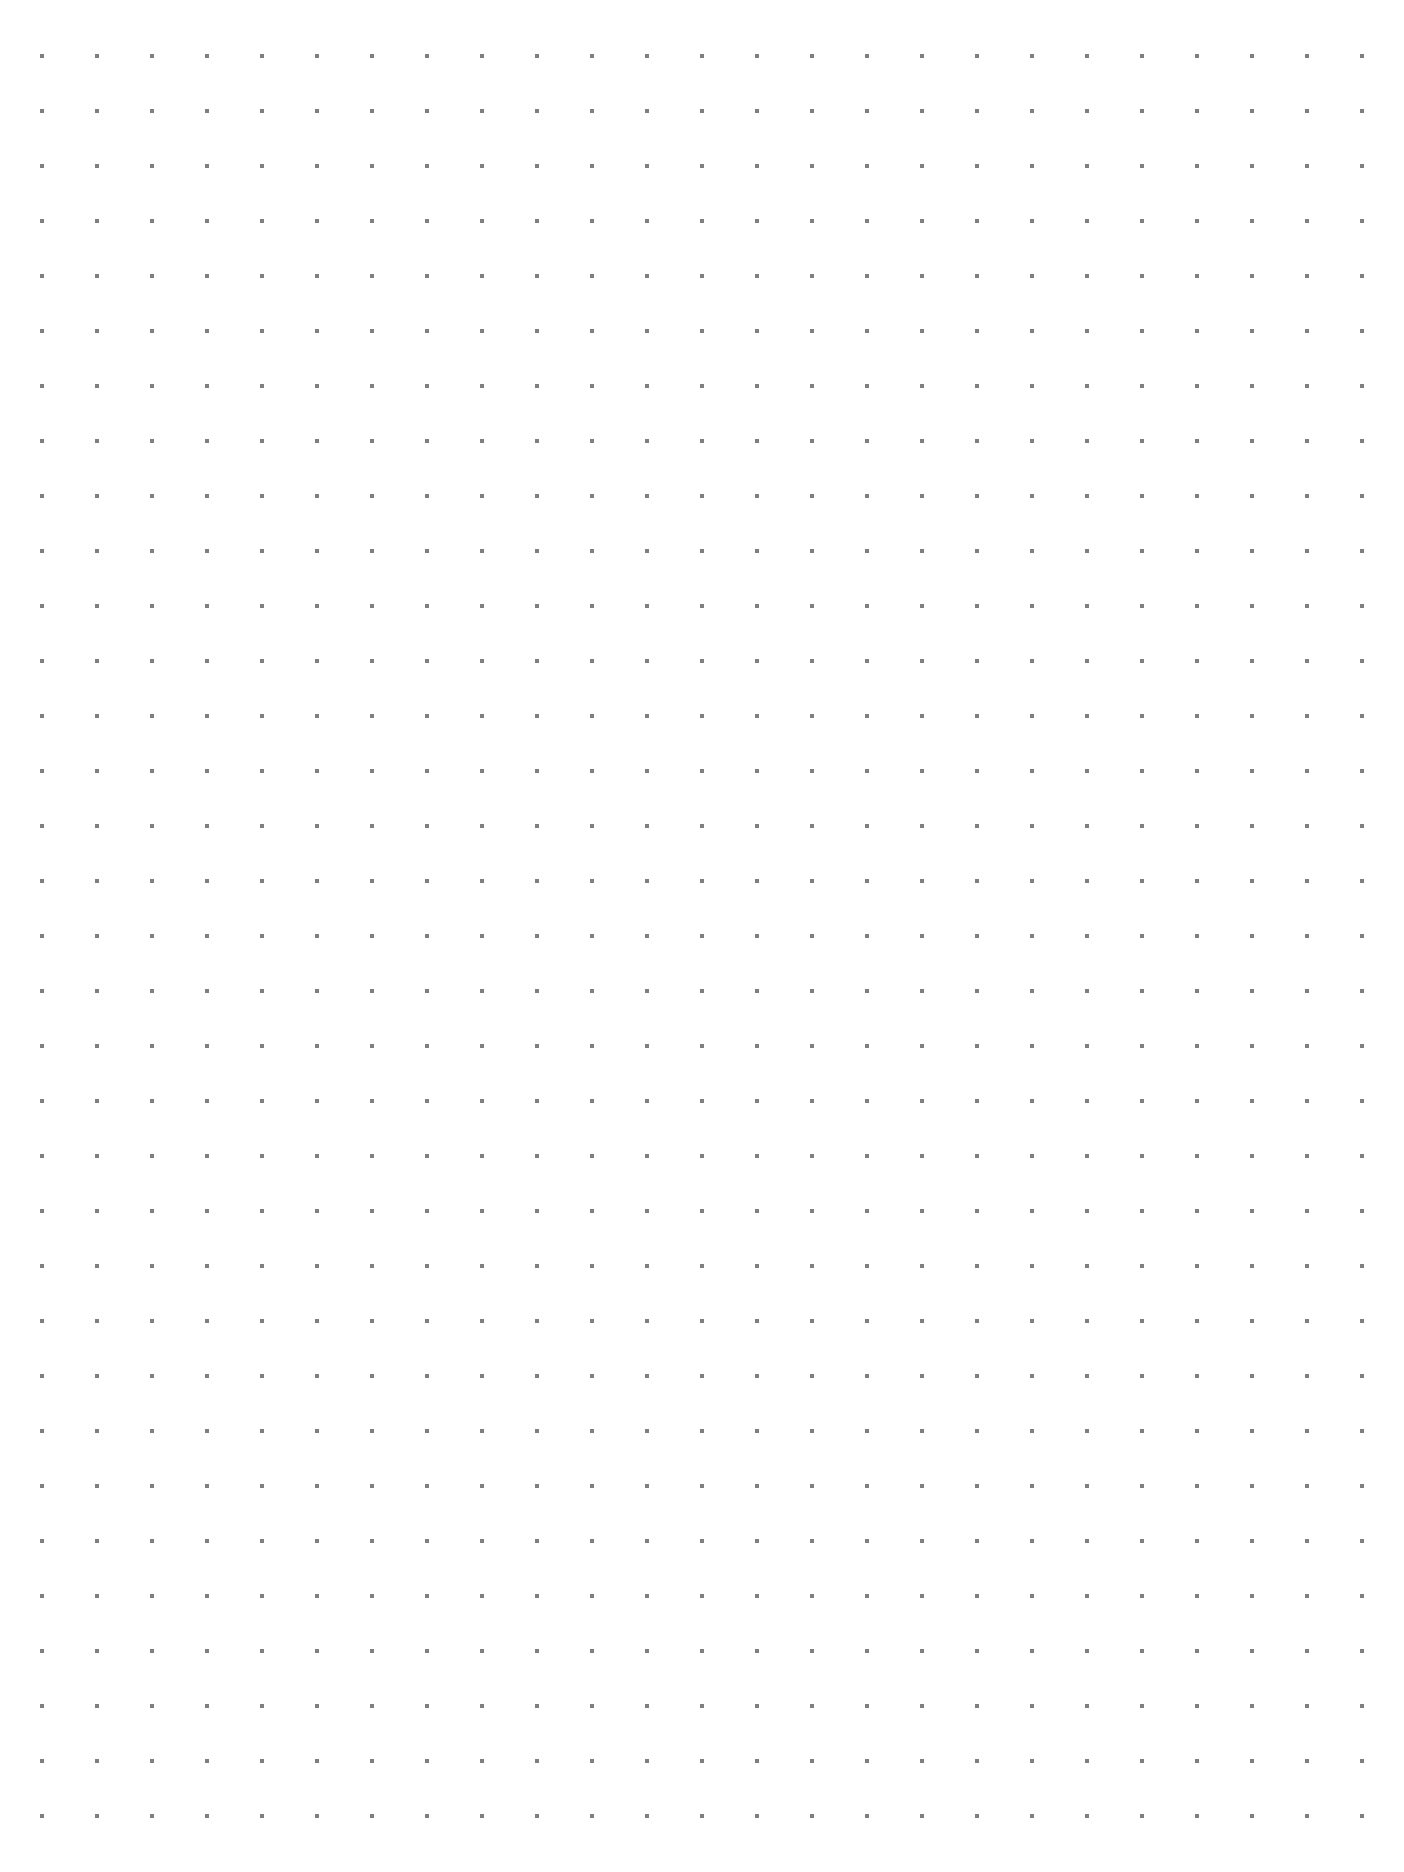
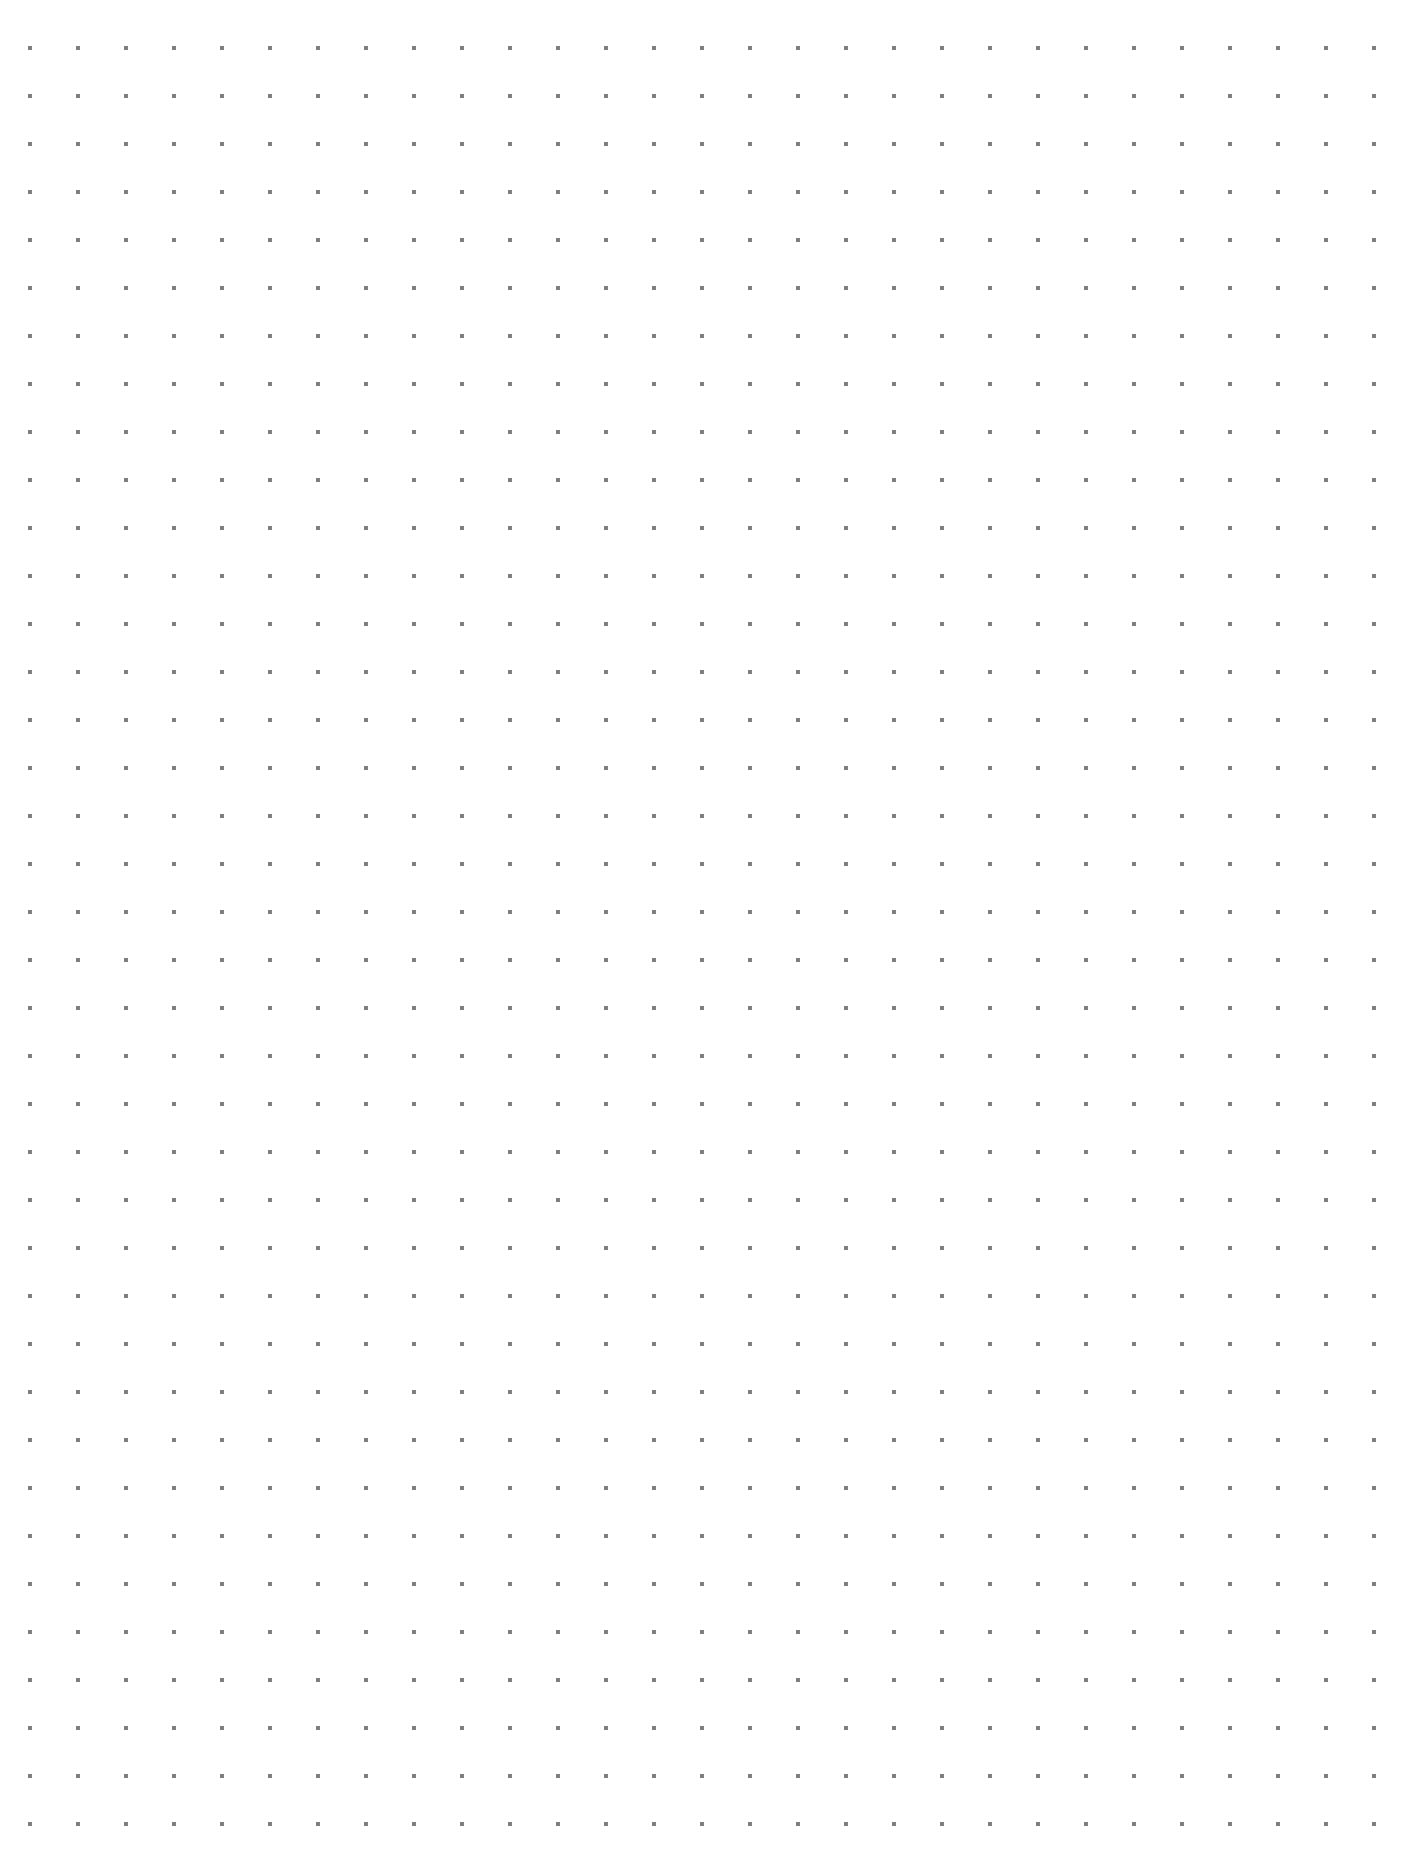
dots: make size configurable
I switched from a Nova 3 to a Note 3 and the spacing was too much, so it makes sense for it to be changeable.

diff --git a/templates/dots.go b/templates/dots.go
@@ -5,7 +5,13 @@ import (
 )
 
 type Dots struct {
-	// NOOP
+	spacing float64
+}
+
+func NewDots(spacing float64) Dots {
+	return Dots{
+		spacing: spacing,
+	}
 }
 
 func (d Dots) Name() string {
@@ -14,28 +20,27 @@ func (d Dots) Name() string {
 
 func (d Dots) Draw(ctx *gg.Context) {
 
-	spacing := 55.0
 	dotSize := 4.0
 
 	screenWidth := float64(ctx.Width())
 	screenHeight := float64(ctx.Height())
 
 	// we want at least half spacing as surrounding margin
-	minMargin := spacing / 2.0
+	minMargin := d.spacing / 2.0
 
 	// Calculate how many total dots are needed
-	xDotsTotal := int((screenWidth-2*minMargin)/spacing) + 1
-	yDotsTotal := int((screenHeight - 2*minMargin) / spacing)
+	xDotsTotal := int((screenWidth-2*minMargin)/d.spacing) + 1
+	yDotsTotal := int((screenHeight - 2*minMargin) / d.spacing)
 
 	// Center the dots on the canvas
-	startX := (screenWidth - float64(xDotsTotal-1)*spacing) / 2.0
-	startY := (screenHeight - float64(yDotsTotal-1)*spacing) / 2.0
+	startX := (screenWidth - float64(xDotsTotal-1)*d.spacing) / 2.0
+	startY := (screenHeight - float64(yDotsTotal-1)*d.spacing) / 2.0
 
 	// Draw the dots
 	for dotsY := 0; dotsY < yDotsTotal; dotsY++ {
 		for dotsX := 0; dotsX <= xDotsTotal; dotsX++ {
-			x := float64(dotsX)*spacing + startX - dotSize/2.0
-			y := float64(dotsY)*spacing + startY - dotSize/2.0
+			x := float64(dotsX)*d.spacing + startX - dotSize/2.0
+			y := float64(dotsY)*d.spacing + startY - dotSize/2.0
 			ctx.DrawRectangle(x, y, dotSize, dotSize)
 		}
 	}

diff --git a/main.go b/main.go
@@ -16,7 +16,7 @@ const (
 
 func main() {
 
-	dots := templates.Dots{}
+	dots := templates.NewDots(48.0)
 	squaresSmall := templates.NewSquares("squares-small", 50.0, 4.0)
 	squaresLarge := templates.NewSquares("squares-large", 75.0, 4.0)
 
